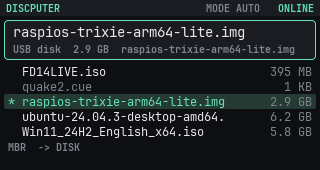
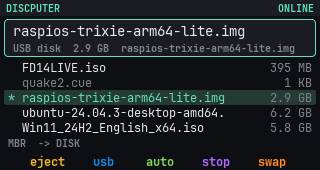
Shortcut bar on keys 4-8 (eject/usb/mode/stop/insert), F/X navigation without Fn
Claude-Session: https://claude.ai/code/session_017qLHAkC6kcghx4Uy9wAKgW

diff --git a/app/src/disc_app.cpp b/app/src/disc_app.cpp
@@ -17,11 +17,11 @@ using cz::kWidth;
 using cz::make_box;
 using cz::make_label;
 
-constexpr int kDriveY = 20;
-constexpr int kDriveH = 40;
-constexpr int kListY = 64;
+constexpr int kDriveY = 19;
+constexpr int kDriveH = 38;
+constexpr int kListY = 60;
 constexpr int kRowH = 15;
-constexpr int kFooterY = 141;
+constexpr int kFooterY = 137;
 
 const char* kHelp =
     "#63e2b7 DISCPUTER# - USB optical drive\n"
@@ -33,12 +33,13 @@ const char* kHelp =
     "Cable: RIGHT USB-C to the computer\n"
     "(Ethernet and USB-A are off in Slave)\n"
     "\n"
-    "#63e2b7 KEYS#\n"
-    "Fn+F/X  choose an image\n"
-    "Enter   insert it (swaps the disc)\n"
-    "E       eject       R  reconnect USB\n"
-    "M       mode AUTO / CD / DISK\n"
-    "S       stop the drive\n"
+    "#63e2b7 KEYS# (under the screen: 4..8)\n"
+    "F / X   choose an image (no Fn needed)\n"
+    "8 Enter insert it (swaps the disc)\n"
+    "4 E     eject\n"
+    "5 R     reconnect USB\n"
+    "6 M     mode AUTO / CD / DISK\n"
+    "7 S     stop the drive\n"
     "F5      rescan the folder   F6 theme\n"
     "\n"
     "#63e2b7 MODES#\n"
@@ -160,6 +161,8 @@ void DiscApp::build() {
     lv_obj_set_width(footer_, kWidth - 16);
     lv_label_set_long_mode(footer_, LV_LABEL_LONG_MODE_DOTS);
 
+    bar_.build(root_, s);
+
     help_ = make_box(root_, 0, 0, kWidth, kHeight);
     lv_obj_set_style_bg_color(help_, s.bg, 0);
     lv_obj_set_style_bg_opa(help_, LV_OPA_COVER, 0);
@@ -198,13 +201,26 @@ void DiscApp::refresh() {
     refresh_drive();
     refresh_list();
     refresh_footer();
+    refresh_bar();
+}
+
+void DiscApp::refresh_bar() {
+    const bool idle = !gadget_->busy();
+    const bool up = state_.up;
+    const bool have = !images_.empty() && images_[static_cast<size_t>(sel_)].info.supported();
+    const char* mode = pref_ == ModePref::Auto ? "auto" : pref_ == ModePref::Cd ? "cd" : "disk";
+    bar_.set(4, "eject", idle && up && !state_.file.empty());
+    bar_.set(5, "usb", idle && up);
+    bar_.set(6, mode, idle);
+    bar_.set(7, "stop", idle && up);
+    bar_.set(8, up && !state_.file.empty() ? "swap" : "insert", idle && have);
 }
 
 void DiscApp::refresh_status() {
     const auto& s = style_;
     std::string text;
     const char* pref = pref_ == ModePref::Auto ? "AUTO" : pref_ == ModePref::Cd ? "CD" : "DISK";
-    text += "#" + color_hex(s.dim) + " MODE " + pref + "#   ";
+    (void)pref;
     if (!state_.up) text += "#" + color_hex(s.dim) + " USB OFF#";
     else if (state_.usb == "configured") text += "#" + color_hex(s.accent) + " ONLINE#";
     else text += "#" + color_hex(s.warn) + " NO HOST#";
@@ -321,6 +337,34 @@ void DiscApp::insert_selected() {
     }
 }
 
+bool DiscApp::action(int key) {
+    switch (key) {
+        case 4:
+            if (state_.up && !state_.file.empty()) command({"eject"}, "Ejecting");
+            return true;
+        case 5:
+            if (state_.up) command({"replug"}, "Reconnecting USB");
+            return true;
+        case 6: {
+            pref_ = pref_ == ModePref::Auto ? ModePref::Cd : pref_ == ModePref::Cd ? ModePref::Disk : ModePref::Auto;
+            // a disc in the drive follows the new mode right away
+            const auto* img = inserted();
+            if (state_.up && img && state_.cd != (mode_for(*img) == dp::Mode::Cd)) {
+                command({"up", img->path, mode_for(*img) == dp::Mode::Cd ? "cd" : "disk"}, "Switching mode");
+            }
+            return true;
+        }
+        case 7:
+            if (state_.up) command({"down"}, "Stopping the drive");
+            return true;
+        case 8:
+            insert_selected();
+            return true;
+        default:
+            return false;
+    }
+}
+
 void DiscApp::toggle_help() {
     if (!lv_obj_has_flag(help_, LV_OBJ_FLAG_HIDDEN)) {
         lv_obj_add_flag(help_, LV_OBJ_FLAG_HIDDEN);
@@ -343,11 +387,18 @@ bool DiscApp::on_key(const cz::KeyEvent& ev) {
     if (!ev.pressed_or_repeat()) return false;
     const int n = static_cast<int>(images_.size());
 
+    if (press && cz::ShortcutBar::is_key(k)) {
+        action(cz::ShortcutBar::key_of(k));
+        refresh();
+        return true;
+    }
     switch (k) {
         case key::Up:
+        case 'f':  // F/X/Z/C are arrows on CardputerZero without Fn (launcher convention)
             if (n) sel_ = (sel_ + n - 1) % n;
             break;
         case key::Down:
+        case 'x':
             if (n) sel_ = (sel_ + 1) % n;
             break;
         default:
@@ -358,32 +409,24 @@ bool DiscApp::on_key(const cz::KeyEvent& ev) {
                     toggle_help();
                     return true;
                 case key::Enter:
-                    insert_selected();
+                    action(8);
                     break;
                 case 'e':
                 case 'E':
-                    if (state_.up) command({"eject"}, "Ejecting");
+                    action(4);
                     break;
                 case 'r':
                 case 'R':
-                    if (state_.up) command({"replug"}, "Reconnecting USB");
+                    action(5);
+                    break;
+                case 'm':
+                case 'M':
+                    action(6);
                     break;
                 case 's':
                 case 'S':
-                    if (state_.up) command({"down"}, "Stopping the drive");
+                    action(7);
                     break;
-                case 'm':
-                case 'M': {
-                    pref_ = pref_ == ModePref::Auto ? ModePref::Cd
-                            : pref_ == ModePref::Cd ? ModePref::Disk
-                                                    : ModePref::Auto;
-                    // a disc in the drive follows the new mode right away
-                    const auto* img = inserted();
-                    if (state_.up && img && state_.cd != (mode_for(*img) == dp::Mode::Cd)) {
-                        command({"up", img->path, mode_for(*img) == dp::Mode::Cd ? "cd" : "disk"}, "Switching mode");
-                    }
-                    break;
-                }
                 case key::F(5):
                     rescan();
                     rt_.toast().show(std::to_string(images_.size()) + " images", view::widgets::ToastTone::Default,

diff --git a/app/src/disc_app.h b/app/src/disc_app.h
@@ -3,6 +3,7 @@
 #include "gadget.h"
 #include "library.h"
 #include "runtime.h"
+#include "shortcut_bar.h"
 #include "ui_style.h"
 
 #include <filesystem>
@@ -34,6 +35,8 @@ private:
     void refresh_drive();
     void refresh_list();
     void refresh_footer();
+    void refresh_bar();
+    bool action(int key);
     void toggle_help();
     void insert_selected();
     void command(const std::vector<std::string>& args, const std::string& busy_text);
@@ -66,6 +69,7 @@ private:
     lv_obj_t* row_name_[kRows]{};
     lv_obj_t* row_size_[kRows]{};
     lv_obj_t* footer_{nullptr};
+    cz::ShortcutBar bar_;
     lv_obj_t* help_{nullptr};
     lv_obj_t* help_text_{nullptr};
 };
